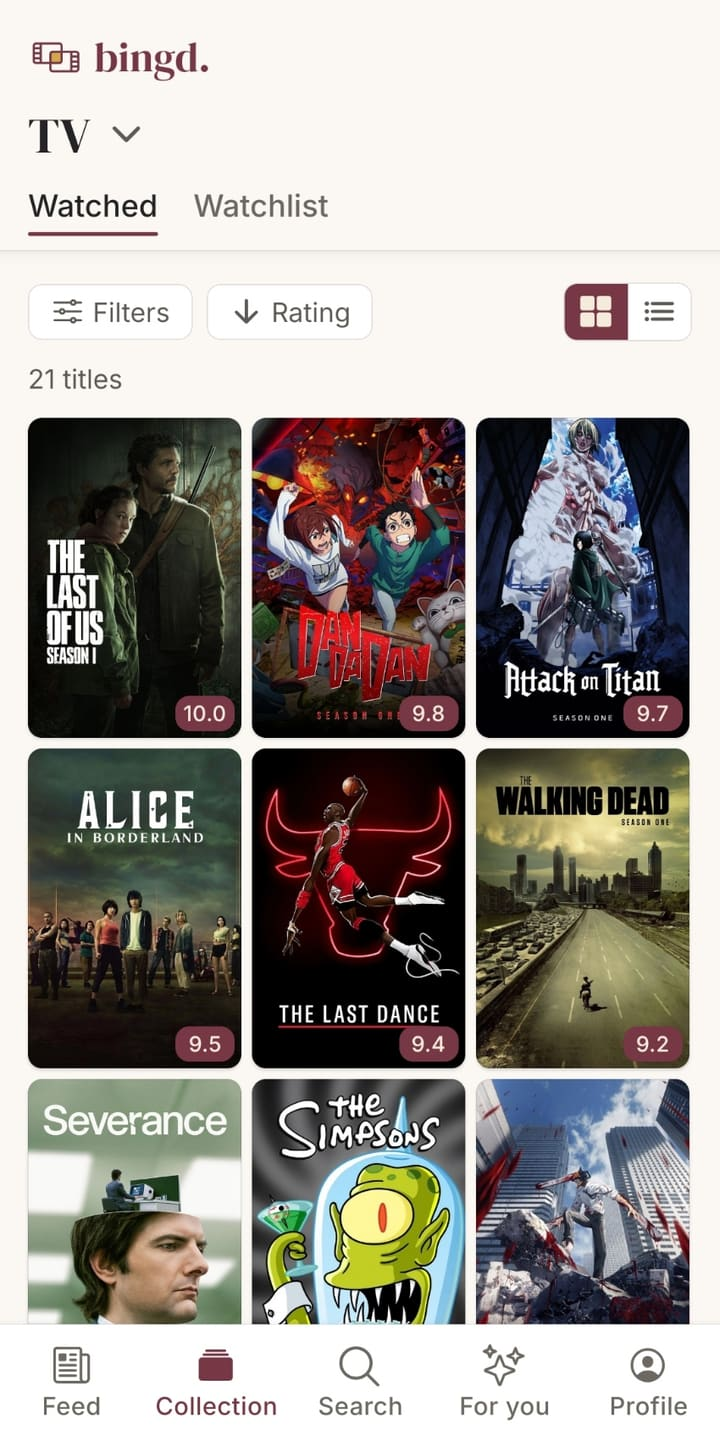
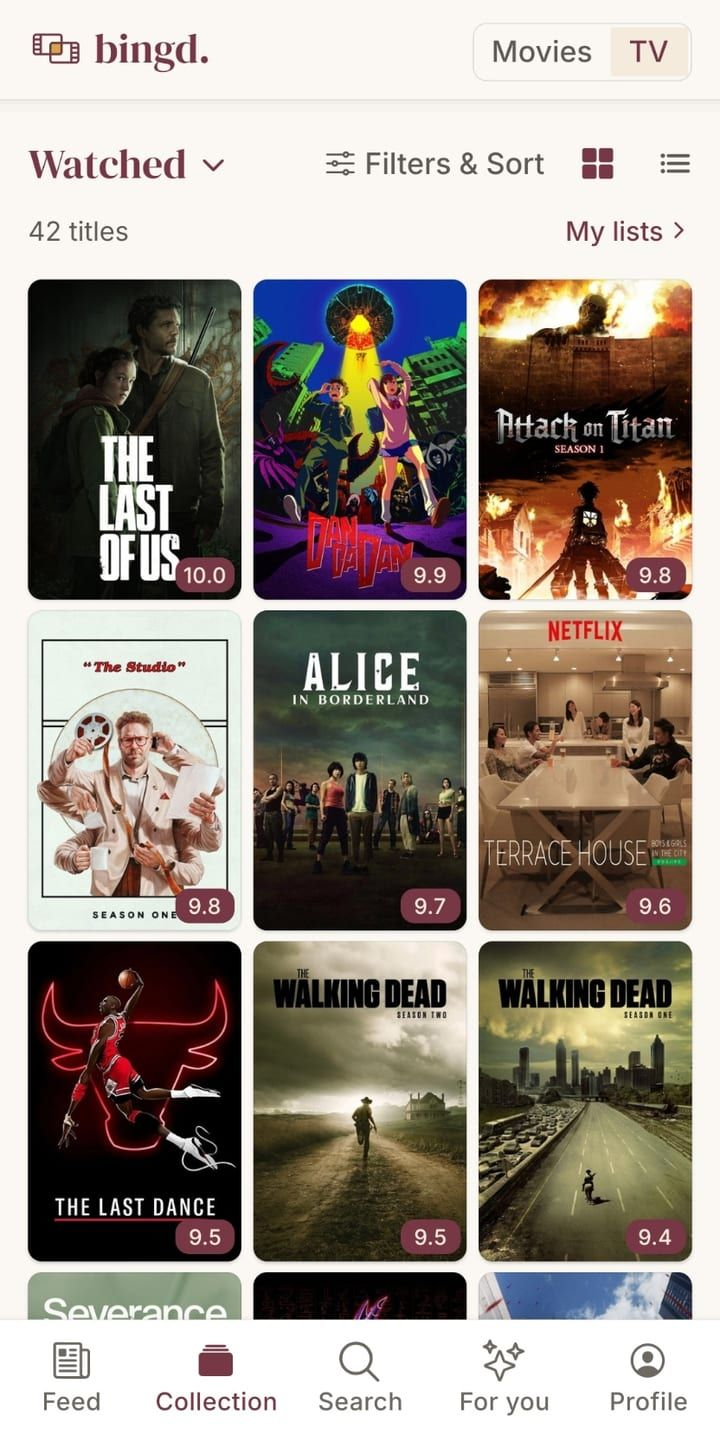
Refresh the website screenshots from the approved Nov 9 screen layers.
Six landing shots and the router's two images now come from the founder's prepared layers, the same screens as the approved App Store set with their localized blur intact and the Android bars already cropped. The comments thread and Group Picks have no newer capture and are unchanged. Alt text names the new titles and writes the product as bingd. web/shots.mjs gains a --layers mode that reproduces these files, and its superseded capture entries are gone so a plain run cannot restore them.

diff --git a/docs/architecture/web-deployment.md b/docs/architecture/web-deployment.md
@@ -536,6 +536,14 @@ on); the friends section `shot-feed` + `shot-comments`; the last section `shot-r
 `web/src/`, but the page no longer references them. The section labels read How it works,
 A social experience and Find your next binge.
 
+**Refreshed 2026-11-09** from the founder's prepared screen layers, the same screens as the
+approved App Store set (`store-assets/listings/2026-11-09/`) before they went into a phone
+frame: `shot-movies`, `shot-tv`, `shot-compare`, `shot-score`, `shot-feed`,
+`shot-recommended`, and the router's `shot-collection.jpg` and `shot-ranking.jpg`. The
+layers arrive redacted and cropped, so `node web/shots.mjs --layers <dir>` only scales them
+(`LAYER_SHOTS`). `shot-comments` and `shot-grouppicks` have no newer capture and are
+unchanged.
+
 ### Adding or replacing a landing-page screenshot
 
 1. **Raw capture.** Save the untouched phone screenshot into `02 Screenshots/App Store/` in
